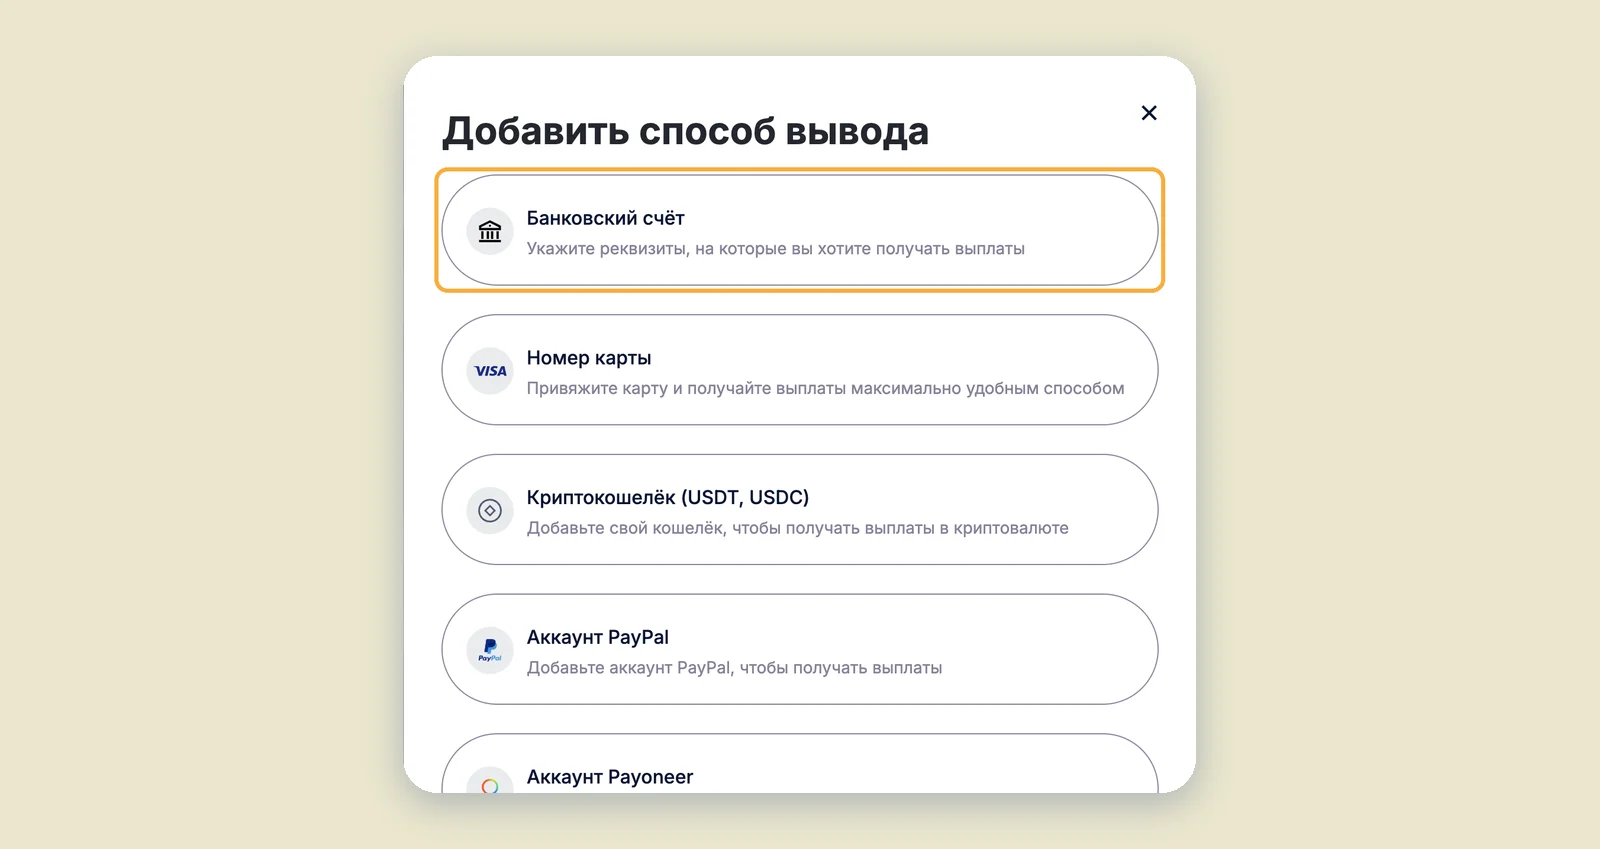
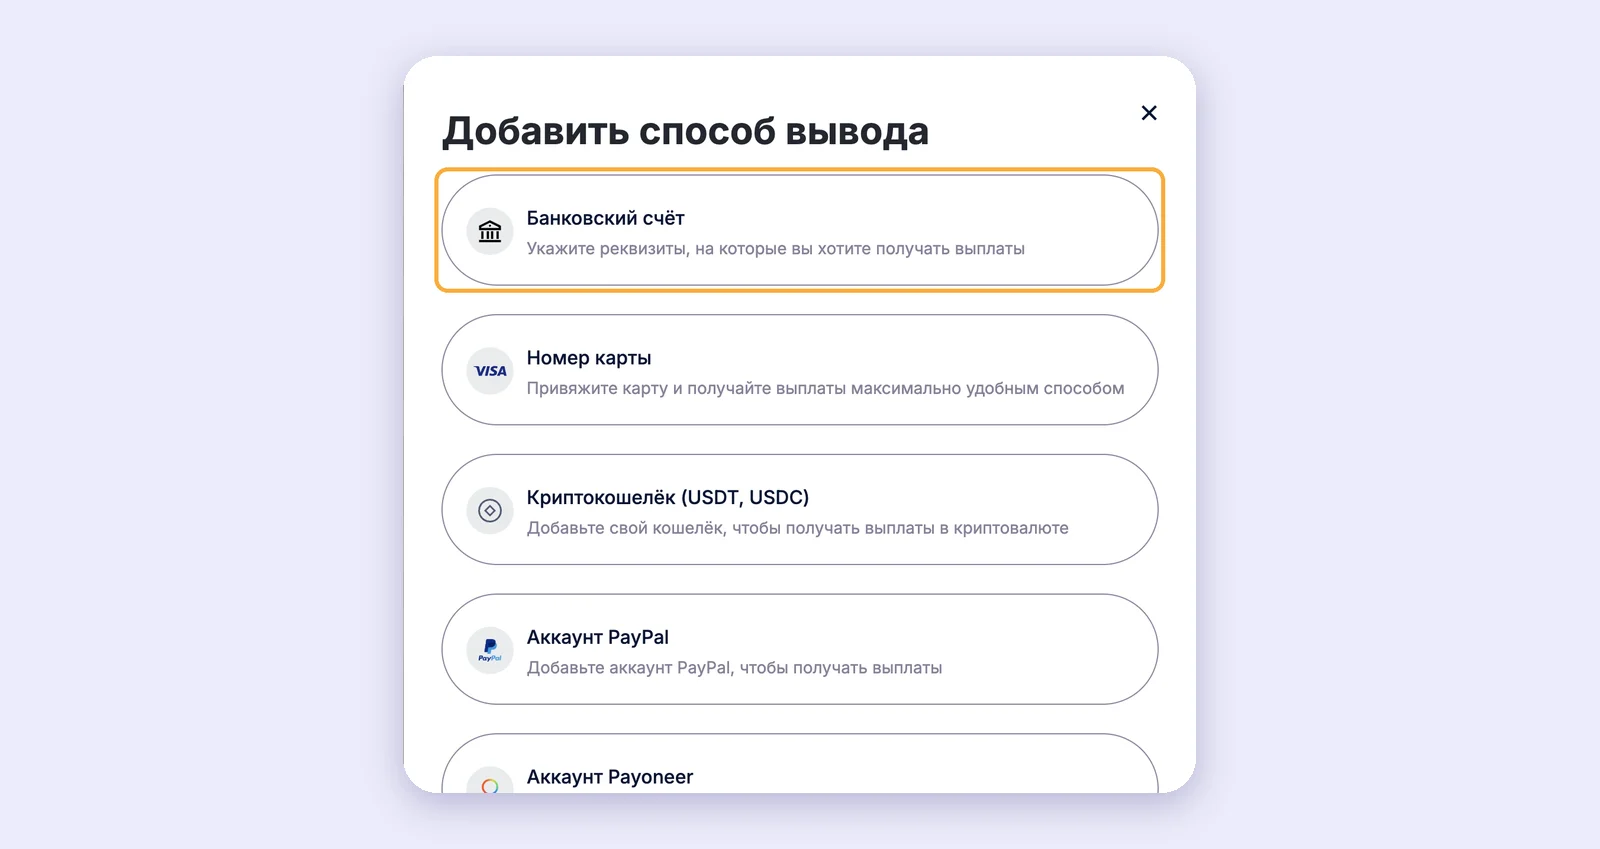
Use Raleway for all text; restore lavender screenshot frames
Claude-Session: https://claude.ai/code/session_013xNC6Gmp1cRtLRRdyBUS8a

diff --git a/index.html b/index.html
@@ -6,10 +6,10 @@
 <title>Старт в Finboo для фрилансера</title>
 <link rel="preconnect" href="https://fonts.googleapis.com">
 <link rel="preconnect" href="https://fonts.gstatic.com" crossorigin>
-<link rel="stylesheet" href="https://fonts.googleapis.com/css2?family=Raleway:wght@300;400;500;600;700&display=swap">
+<link rel="stylesheet" href="https://fonts.googleapis.com/css2?family=Raleway:wght@400;500;600;700&display=swap">
 <style>
 /* Finboo brand (Brand Guidelines, Nov 2025): blue #143CD2, graphite #323232, gold #BDA25A, off-white #F8F7F3.
-   Headings: Carbona (light/regular weights) with Raleway as the Cyrillic-capable fallback; body: Raleway.
+   Type: Raleway for everything.
    Layout: logo + step rail on the left, one reading column; blue hero with gold accent words; single light brand look. */
 :root{
   color-scheme:light;
@@ -17,7 +17,7 @@
   --muted:#6B6A69; --gray:#7F7E7E; --line:#E3DED2; --cream:#EBE6CE; --sand:#D8CEBF;
   --sky:#3F9DD1; --amber:#F9AD3E; --surface:#FFFFFF; --tint:#E9EDFB;
   --wa:#5FC86E; --tg:#3F9DD1; --toggle:#323232;
-  --f-display:"Carbona","Carbona Variable","Raleway",system-ui,sans-serif;
+  --f-display:"Raleway","Segoe UI",system-ui,sans-serif;
   --f-body:"Raleway","Segoe UI",system-ui,-apple-system,sans-serif;
   --radius:18px;
 }
@@ -25,8 +25,8 @@
 body{background:var(--paper);color:var(--ink);overflow-wrap:break-word;font:400 16.5px/1.65 var(--f-body);-webkit-font-smoothing:antialiased;font-variant-numeric:lining-nums}
 .wrap{max-width:1200px;margin:0 auto;padding:44px 20px 110px;display:grid;grid-template-columns:230px minmax(0,1fr);gap:64px}
 h1,h2,h3{font-family:var(--f-display);text-wrap:balance;margin:0;color:var(--ink)}
-h1{font-size:clamp(34px,5vw,54px);line-height:1.08;font-weight:400;letter-spacing:-.02em}
-h2{font-size:clamp(26px,3.2vw,36px);line-height:1.15;font-weight:400;letter-spacing:-.015em}
+h1{font-size:clamp(34px,5vw,54px);line-height:1.08;font-weight:500;letter-spacing:-.02em}
+h2{font-size:clamp(26px,3.2vw,36px);line-height:1.15;font-weight:500;letter-spacing:-.015em}
 h3{font-size:19px;line-height:1.3;font-weight:600}
 h2 .soft{color:var(--gray)}
 p{margin:0}
@@ -129,7 +129,7 @@ figcaption .m{display:inline-block;width:12px;height:12px;border:2px solid var(-
 .faq details>div{padding:0 0 20px;color:var(--ink);display:flex;flex-direction:column;gap:10px;max-width:68ch}
 
 .done{background:var(--navy);color:#fff;border-radius:24px;padding:28px 30px;display:flex;flex-direction:column;gap:12px}
-.done h3{font:400 clamp(22px,2.6vw,28px)/1.2 var(--f-display);color:#fff}
+.done h3{font:500 clamp(22px,2.6vw,28px)/1.2 var(--f-display);color:#fff}
 .done h3 em{font-style:normal;color:var(--gold)}
 .done p{max-width:64ch;color:rgba(255,255,255,.88)}
 .done ol{margin:0;padding-left:20px;display:flex;flex-direction:column;gap:6px;max-width:64ch}

diff --git a/README.md b/README.md
@@ -8,7 +8,7 @@
 - `img/` — скриншоты интерфейса (WebP, 1600×849).
 - `.nojekyll` — отключает обработку Jekyll на GitHub Pages.
 
-Сборка не нужна. Шрифты: Raleway из Google Fonts. Для заголовков указан фирменный Carbona: если на основном сайте он подключён через @font-face, добавьте то же подключение в <head>, иначе заголовки отображаются в Raleway.
+Сборка не нужна. Шрифт: Raleway из Google Fonts, для всех текстов и заголовков.
 
 ## Публикация на субдомене
 
